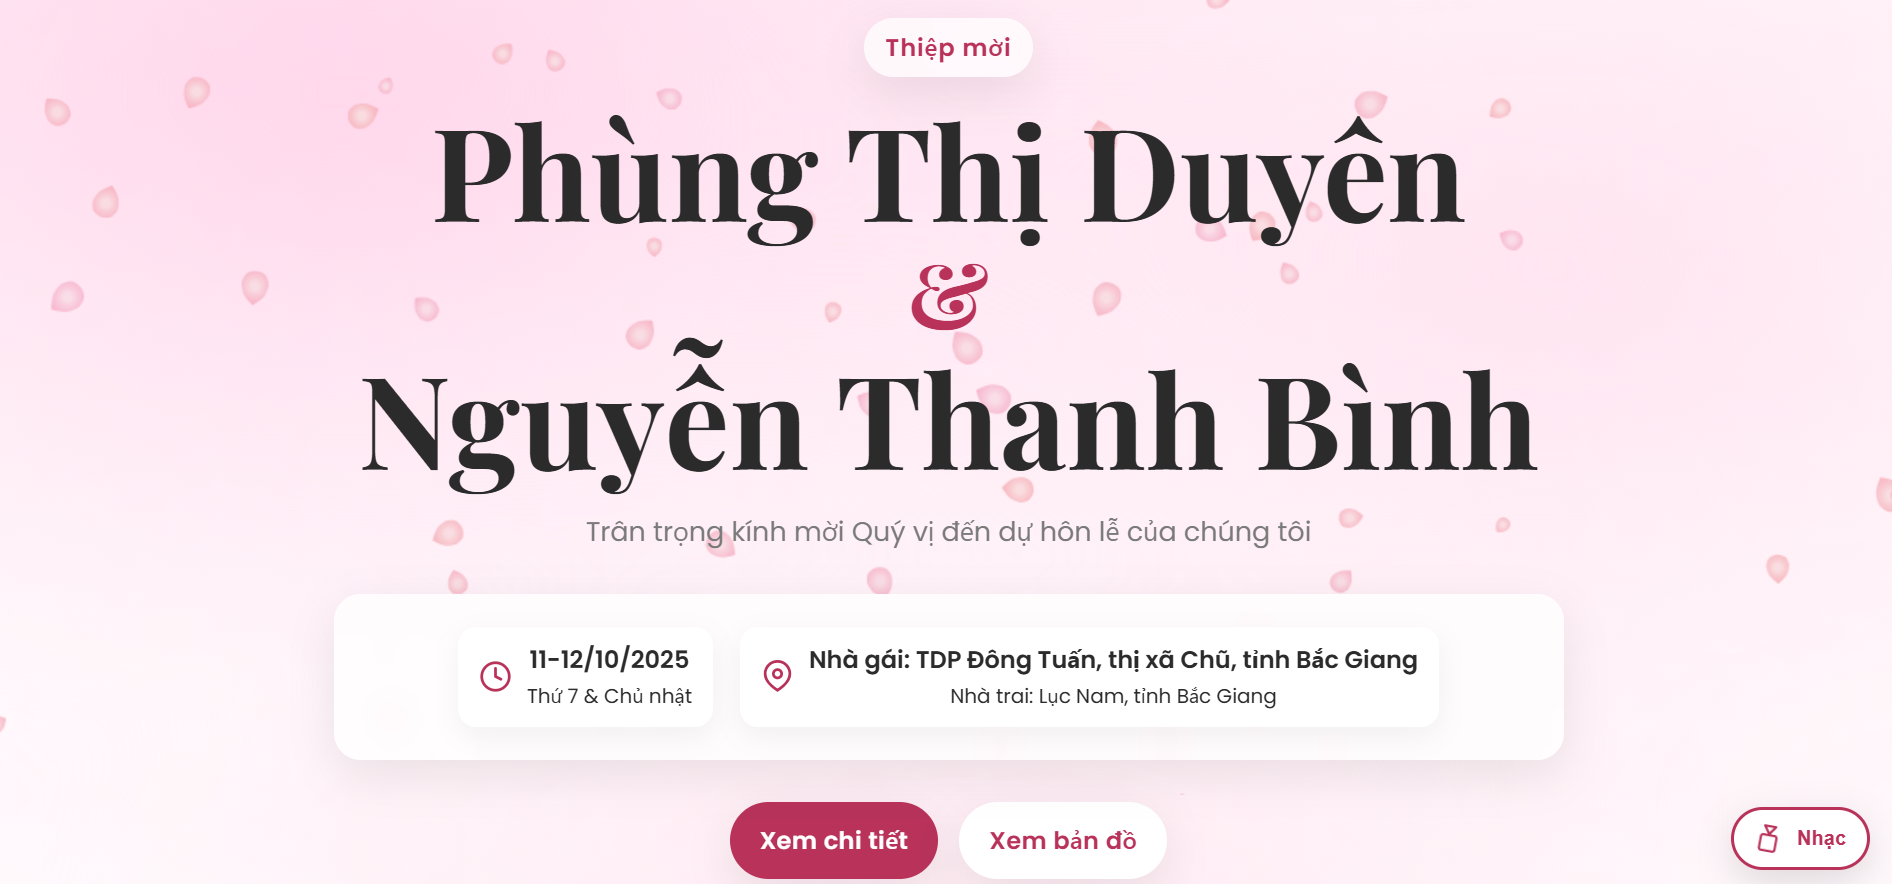
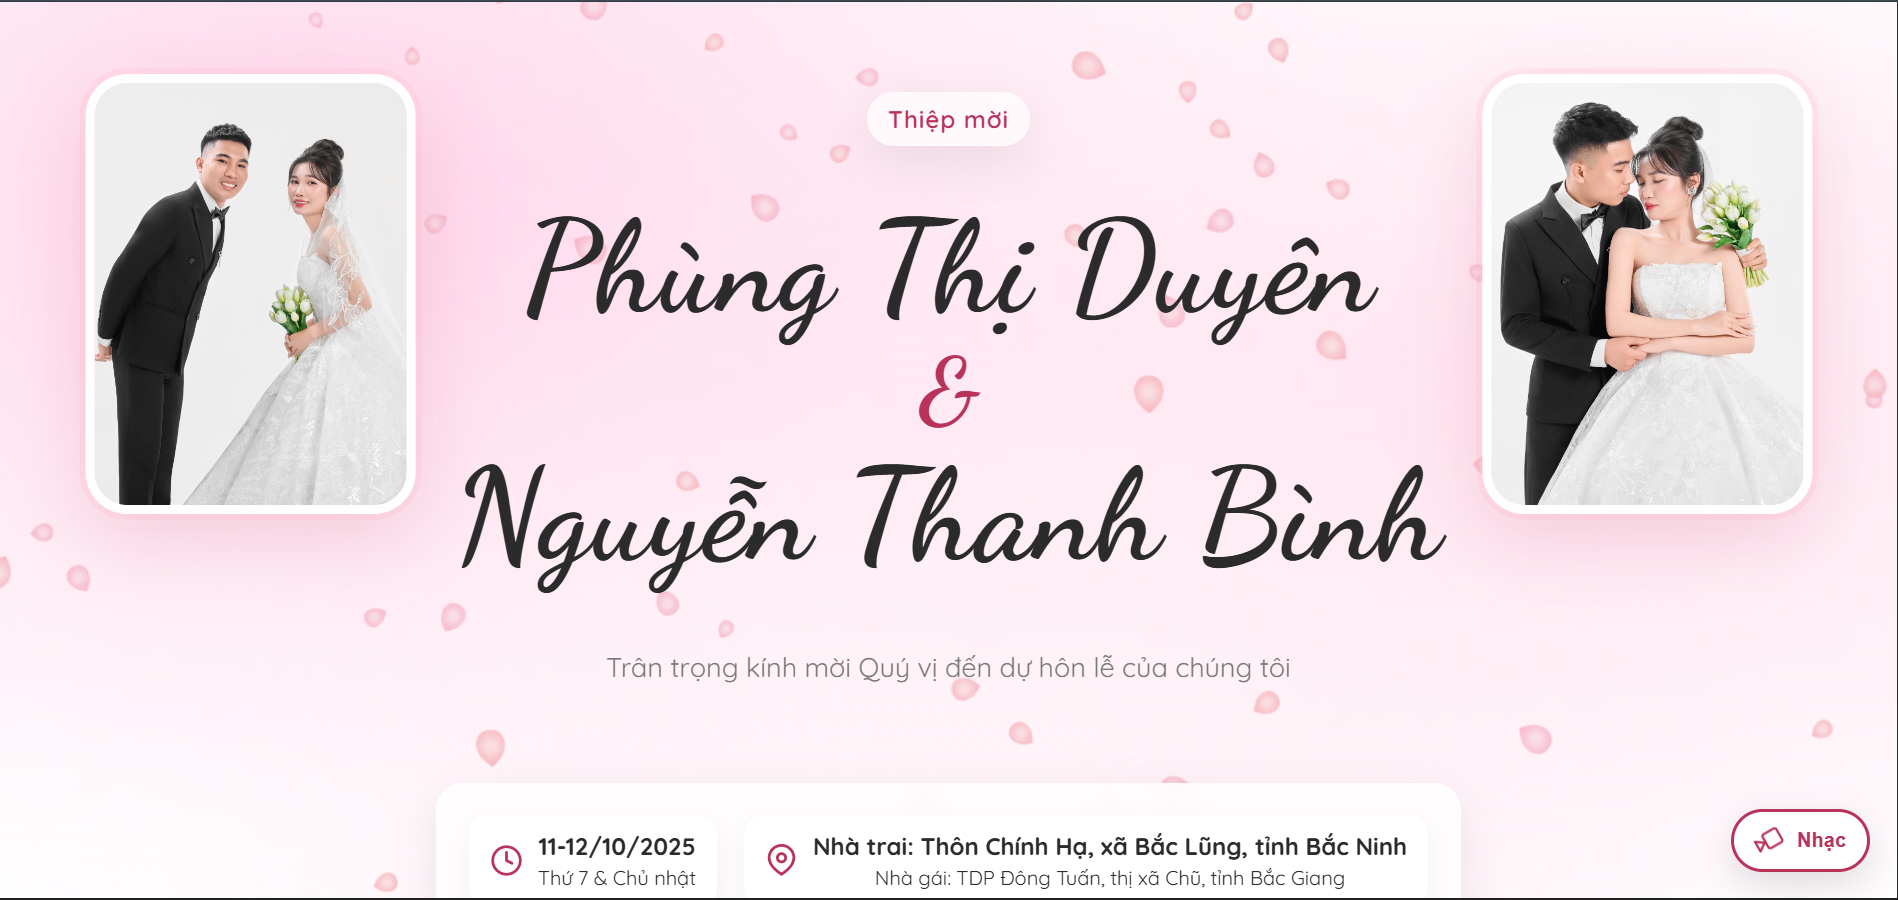
first commidddt

diff --git a/index.html b/index.html
@@ -3,11 +3,11 @@
 <head>
   <meta charset="UTF-8" />
   <meta name="viewport" content="width=device-width, initial-scale=1" />
-  <title>Thiệp cưới | Phùng Thị Duyên & Nguyễn Thanh Bình</title>
+  <title>Thiệp cưới | Nguyễn Thanh Bình & Phùng Thị Duyên</title>
 
   <!-- Open Graph for nice link preview (đổi og:image sau khi bạn có ảnh thumbnail.jpg) -->
-  <meta property="og:title" content="Thiệp cưới Duyên & Bình" />
-  <meta property="og:description" content="Kính mời bạn đến dự hôn lễ của Phùng Thị Duyên & Nguyễn Thanh Bình" />
+  <meta property="og:title" content="Thiệp cưới Bình & Duyên" />
+  <meta property="og:description" content="Kính mời bạn đến dự hôn lễ của Nguyễn Thanh Bình & Phùng Thị Duyên" />
   <meta property="og:image" content="https://raw.githubusercontent.com/hoangngokngheck/thiepcuoi/main/thumbb.png" />
 
   <meta property="og:type" content="website" />
@@ -306,13 +306,13 @@
     <div class="hero-inner">
       <span class="tag">Thiệp mời</span>
       <h1 class="names reveal">
-        <span>Phùng Thị Duyên</span>
-        <span class="amp">&</span>
         <span>Nguyễn Thanh Bình</span>
+        <span class="amp">&</span>
+        <span>Phùng Thị Duyên</span>
       </h1>
       <p class="sub reveal" style="transition-delay:.08s">Trân trọng kính mời Quý vị đến dự hôn lễ của chúng tôi</p>
       <div class="hero-photos-sides">
-        <img class="hero-photo-side" src="images/{199DC963-1FC9-4620-89C7-5821D2CEB261}.png" alt="Ảnh cưới chính">
+        <img class="hero-photo-side" src="images/{8E4FFAFE-6F3E-43C3-88E1-32B6122BA03A}.png" alt="Ảnh cưới chính">
         <img class="hero-photo-side" src="images/{0F794505-9595-4DE7-A8C6-7FAC45A21230}.png" alt="Ảnh cưới phụ">
       </div>
 
@@ -411,7 +411,7 @@
   <section id="gallery">
     <div class="container">
       <h2 class="section-title reveal">Khoảnh khắc</h2>
-      <p class="section-sub reveal">Một vài hình ảnh ngọt ngào của Duyên & Bình</p>
+      <p class="section-sub reveal">Một vài hình ảnh ngọt ngào của Bình & Duyên</p>
       <div class="gallery-wrap" style="position:relative">
         <div class="gallery" id="gallerySlider">
   <img class="reveal" src="images/{0EC1193D-2F82-4E28-8DF1-06EA9B61D031}.png" alt="Khoảnh khắc 1">
@@ -453,7 +453,7 @@
   <footer class="footer">
     <div class="container">
       <div class="reveal">Xin trân trọng cảm ơn Quý vị đã dành thời gian tham dự hôn lễ của chúng tôi. 💐</div>
-      <div style="margin-top:8px; font-size:14px" class="reveal">Thiệp cưới của Duyên & Bình</div>
+      <div style="margin-top:8px; font-size:14px" class="reveal">Thiệp cưới của Bình & Duyên</div>
     </div>
   </footer>
 
